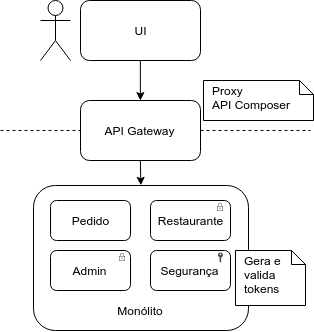
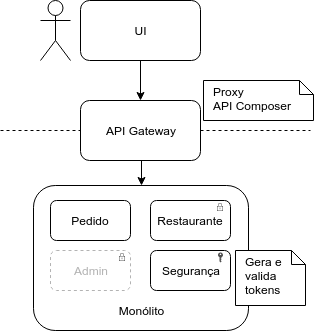
serviço Admin renomeado para Administrativo

diff --git a/15-seguranca.md b/15-seguranca.md
@@ -1,5 +1,80 @@
 # Segurança
 
+## Extraindo um serviço Administrativo do monólito
+
+Primeiramente, vamos extrair o módulo `eats-administrativo` do monólito para um serviço `eats-administrativo-service`.
+
+Para isso, criamos um novo projeto Spring Boot com as seguintes dependências:
+
+- Spring Boot DevTools
+- Spring Boot Actuator
+- Spring Data JPA
+- Spring Web Starter
+- Config Client
+- Eureka Discovery Client
+- Zipkin Client
+
+Então, movemos as seguintes classes do módulo `eats-administrativo` do monólito para o novo serviço `eats-administrativo-service`:
+
+- FormaDePagamento
+- FormaDePagamentoController
+- FormaDePagamentoRepository
+- TipoDeCozinha
+- TipoDeCozinhaController
+- TipoDeCozinhaRepository
+
+O serviço administrativo deve apontar para o Config Server, definindo um `bootstrap.properties` com `administrativo` como _application name_. No arquivo `administrativo.properties` do `config-repo`, definiremos as configurações de data source.
+
+Inicialmente, o serviço administrativo pode apontar para o mesmo BD do monólito. Aos poucos, deve ser feita a migração das tabelas `forma_de_pagamento` e `tipo_de_cozinha` para um BD próprio.
+
+No `application.properties`, deve ser definida `8084` na porta a ser utilizada.
+
+Então, o módulo `eats-administrativo` do monólito pode ser removido, assim como suas autorizações no módulo `eats-seguranca`.
+
+![Serviço administrativo extraído do monólito {w=93}](imagens/15-seguranca/administrativo-extraido-do-monolito.png)
+
+## Exercício: um serviço Administrativo
+
+1. Clone o projeto `fj33-eats-administrativo-service` para o seu Desktop:
+
+  ```sh
+  cd ~/Desktop
+  git clone https://gitlab.com/aovs/projetos-cursos/fj33-eats-administrativo-service.git
+  ```
+
+2. Crie um arquivo `administrativo.properties` no `config-repo`, definindo um data source que aponta para o BD do monólito:
+
+  ####### config-repo/administrativo.properties
+
+  ```properties
+  spring.datasource.url=jdbc:mysql://localhost/eats?createDatabaseIfNotExist=true
+  spring.datasource.username=root
+  spring.datasource.password=
+  ```
+
+3. Delete o módulo `eats-administrativo` do monólito.
+
+4. Remova, da classe `SecurityConfig` do módulo `eats-seguranca` do monólito,  as configurações de autorização dos endpoints que foram movidos:
+
+  ####### fj33-eats-monolito-modular/eats/eats-seguranca/src/main/java/br/com/caelum/eats/SecurityConfig.java
+
+  ```java
+  class SecurityConfig extends WebSecurityConfigurerAdapter {
+
+    // código omitido ...
+
+    @Override
+    protected void configure(HttpSecurity http) throws Exception {
+      http.authorizeRequests()
+        .antMatchers("/restaurantes/**", "/pedidos/**",̶ ̶"̶/̶t̶i̶p̶o̶s̶-̶d̶e̶-̶c̶o̶z̶i̶n̶h̶a̶/̶*̶*̶"̶,̶ ̶"̶/̶f̶o̶r̶m̶a̶s̶-̶d̶e̶-̶p̶a̶g̶a̶m̶e̶n̶t̶o̶/̶*̶*̶"̶).permitAll()
+        .antMatchers("/actuator/**").permitAll()
+        .̶a̶n̶t̶M̶a̶t̶c̶h̶e̶r̶s̶(̶"̶/̶a̶d̶m̶i̶n̶/̶*̶*̶"̶)̶.̶h̶a̶s̶R̶o̶l̶e̶(̶R̶o̶l̶e̶.̶R̶O̶L̶E̶S̶.̶A̶D̶M̶I̶N̶.̶n̶a̶m̶e̶(̶)̶)̶
+        // código omitido ...
+    }
+  
+  }
+  ```
+
 ## Autenticação e Autorização
 
 Grande parte das aplicações tem diferentes perfis de usuário, que têm permissão de acesso a diferentes funcionalidades. Isso é o que chamamos de **Autorização**.
@@ -176,6 +251,8 @@ class JwtTokenManager {
     return Jwts.builder()
               .setIssuer("Caelum Eats")
               .setSubject(Long.toString(user.getId()))
+              .claim("username", user.getName())
+              .claim("roles", user.getRoles())
               .setIssuedAt(now)
               .setExpiration(expiration)
               .signWith(SignatureAlgorithm.HS256, this.secret)
@@ -204,11 +281,15 @@ class JwtTokenManager {
 
 As configurações de autorização estão definidas na classe `SecurityConfig` do módulo `eats-seguranca` do monólito.
 
-Para URLs que começam com `/admin`, o ROLE do usuário deve ser `ADMIN` e terá acesso a tudo relativo a administração da aplicação. Esse tipo de autorização, em que um determinado ROLE tem acesso a qualquer endpoint relacionado é o que chamamos de _role-based authorization_.
+Antes da extração do serviço administrativo, para as URLs que começavam com `/admin`, o ROLE do usuário deveria ser `ADMIN` e teria acesso a tudo relativo à administração da aplicação. Esse tipo de autorização, em que um determinado ROLE tem acesso a qualquer endpoint relacionado é o que chamamos de _role-based authorization_.
 
-No caso da URL começar com `/parceiros/restaurantes/{restauranteId}`, é necessária uma autorização mais elaborada, que verifica se o usuário tem permissão ao restaurante por meio da classe `AuthorizationService`. Esse tipo de autorização, em que um usuário ter permissão em apenas alguns objetos de negócio é o que chamamos de _ACL-based authorization_. A sigla ACL significa _Access Control List_.
+Porém, ao extrairmos o serviço administrativo, perdemos a autorização feita no módulo de segurança do monólito. Ainda não implementamos autorização no novo serviço.
+
+No caso da URL começar com `/parceiros/restaurantes/do-usuario/{username}` ou `/parceiros/restaurantes/{restauranteId}`, é necessária uma autorização mais elaborada, que verifica se o usuário tem permissão a um restaurante específico, por meio da classe `RestauranteAuthorizationService`. Esse tipo de autorização, em que um usuário ter permissão em apenas alguns objetos de negócio é o que chamamos de _ACL-based authorization_. A sigla ACL significa _Access Control List_.
 
 ![Geração e validação de tokens no módulo de segurança do monólito {w=39}](imagens/15-seguranca/geracao-e-validacao-de-tokens-no-modulo-de-seguranca-do-monolito.png)
+
+<!-- TODO: continuar daqui a alterar o fluxo para considerar a autorização no serviço Administrativo -->
 
 ## Autenticação com Microservices e Single Sign On
 
@@ -1396,73 +1477,6 @@ Como usamos o algoritmo `HS256`, um algoritmo de chaves simétricas, a chave pri
 
 6. (desafio - trabalhoso) Aplique uma estratégia de migração de dados de usuário do monólito para um BD específico para o Authorization Server.
 
-## Extraindo um serviço Administrativo do monólito
-
-Primeiramente, vamos extrair o módulo `eats-admin` do monólito para um serviço `eats-admin-service`.
-
-Para isso, criamos um novo projeto Spring Boot com as seguintes dependências:
-
-- Spring Boot DevTools
-- Spring Boot Actuator
-- Spring Data JPA
-- Spring Web Starter
-- Config Client
-- Eureka Discovery Client
-- Zipkin Client
-
-Então, movemos as seguintes classes do módulo `eats-admin` do monólito para o novo serviço `eats-admin-service`:
-
-- FormaDePagamento
-- FormaDePagamentoController
-- FormaDePagamentoRepository
-- TipoDeCozinha
-- TipoDeCozinhaController
-- TipoDeCozinhaRepository
-
-O Admin Service deve apontar para o Config Server, definindo um `bootstrap.properties` com `admin` como _application name_. No arquivo `admin.properties` do `config-repo`, definiremos as configurações de data source apontando para o BD do monólito.
-
-No `application.properties`, deve ser definida `8084` na porta a ser utilizada.
-
-Então, o módulo `eats-admin` do monólito pode ser removido, assim como suas autorizações no módulo `eats-seguranca`.
-
-## Exercício: um serviço Administrativo
-
-1. Clone o projeto `fj33-eats-admin-service` para o seu Desktop:
-
-  ```sh
-  cd ~/Desktop
-  git clone https://gitlab.com/aovs/projetos-cursos/fj33-eats-admin-service.git
-  ```
-
-2. Crie um arquivo `admin.properties` no `config-repo`, definindo um data source que aponta para o BD do monólito:
-
-  ```properties
-  spring.datasource.url=jdbc:mysql://localhost/eats?createDatabaseIfNotExist=true
-  spring.datasource.username=root
-  spring.datasource.password=
-  ```
-
-3. Delete o módulo `eats-admin` do monólito.
-
-4. Remova, da classe `SecurityConfig` do módulo `eats-seguranca` do monólito,  as configurações de autorização dos endpoints que foram movidos:
-
-  ```java
-  class SecurityConfig extends WebSecurityConfigurerAdapter {
-
-    // código omitido ...
-
-    @Override
-    protected void configure(HttpSecurity http) throws Exception {
-      http.authorizeRequests()
-        .antMatchers("/restaurantes/**", "/pedidos/**",̶ ̶"̶/̶t̶i̶p̶o̶s̶-̶d̶e̶-̶c̶o̶z̶i̶n̶h̶a̶/̶*̶*̶"̶,̶ ̶"̶/̶f̶o̶r̶m̶a̶s̶-̶d̶e̶-̶p̶a̶g̶a̶m̶e̶n̶t̶o̶/̶*̶*̶"̶).permitAll()
-        .antMatchers("/actuator/**").permitAll()
-        .̶a̶n̶t̶M̶a̶t̶c̶h̶e̶r̶s̶(̶"̶/̶a̶d̶m̶i̶n̶/̶*̶*̶"̶)̶.̶h̶a̶s̶R̶o̶l̶e̶(̶R̶o̶l̶e̶.̶R̶O̶L̶E̶S̶.̶A̶D̶M̶I̶N̶.̶n̶a̶m̶e̶(̶)̶)̶
-        // código omitido ...
-    }
-  
-  }
-  ```
-
 ## Resource Server com Spring Security OAuth 2
 
 Para definir um Resource Server com o Spring Security OAuth 2, que consiga validar e decodificar os tokens (opacos ou JWT) emitidos pelo Authorization Server, basta anotar a aplicação ou uma configuração com `@EnableResourceServer`.
@@ -1475,9 +1489,9 @@ Por padrão, todos os endereços requerem autenticação. Porém, é possível c
 
 ## Exercício: protegendo o serviço Administrativo
 
-1. Adicione os starters do Spring Security OAuth 2 e Spring Cloud Security ao `pom.xml` do `eats-admin-service`:
+1. Adicione os starters do Spring Security OAuth 2 e Spring Cloud Security ao `pom.xml` do `eats-administrativo-service`:
 
-  ####### fj33-eats-admin-service/pom.xml
+  ####### fj33-eats-administrativo-service/pom.xml
 
   ```xml
   <dependency>
@@ -1490,18 +1504,18 @@ Por padrão, todos os endereços requerem autenticação. Porém, é possível c
   </dependency>
   ```
 
-2. Anote a  classe `EatsAdminServiceApplication` com `@EnableResourceServer`:
+2. Anote a  classe `EatsAdministrativoServiceApplication` com `@EnableResourceServer`:
 
-  ####### fj33-eats-admin-service/src/main/java/br/com/caelum/eats/admin/EatsAdminServiceApplication.java
+  ####### fj33-eats-administrativo-service/src/main/java/br/com/caelum/eats/admin/EatsAdministrativoServiceApplication.java
 
   ```java
   @EnableResourceServer // adicionado
   @EnableDiscoveryClient
   @SpringBootApplication
-  public class EatsAdminServiceApplication {
+  public class EatsAdministrativoServiceApplication {
 
     public static void main(String[] args) {
-      SpringApplication.run(EatsAdminServiceApplication.class, args);
+      SpringApplication.run(EatsAdministrativoServiceApplication.class, args);
     }
 
   }
@@ -1517,7 +1531,7 @@ Por padrão, todos os endereços requerem autenticação. Porém, é possível c
 
 4. Crie uma classe `OAuthResourceServerConfig`. Herde da classe `ResourceServerConfigurerAdapter` e permita que todos acessem a listagem de tipos de cozinha e formas de pagamento, assim como os endpoints do Spring Boot Actuator. As URLs que começam com `/admin` devem ser restritas a usuário que tem o role `ADMIN`.
 
-  ####### fj33-eats-admin-service/src/main/java/br/com/caelum/eats/admin/OAuthResourceServerConfig.java
+  ####### fj33-eats-administrativo-service/src/main/java/br/com/caelum/eats/admin/OAuthResourceServerConfig.java
 
   ```java
   @Configuration

diff --git a/03-extraindo-servicos.md b/03-extraindo-servicos.md
@@ -72,7 +72,7 @@
 
   Há alguns erros de compilação. Os corrigiremos nos próximos passos.
 
-2. Na classe `Pagamento`, há erros de compilação nas referências às classes `Pedido` e `FormaDePagamento` que são, respectivamente, dos módulos `eats-pedido` e `eats-admin` do monólito.
+2. Na classe `Pagamento`, há erros de compilação nas referências às classes `Pedido` e `FormaDePagamento` que são, respectivamente, dos módulos `eats-pedido` e `eats-administrativo` do monólito.
   Será que devemos colocar dependências Maven a esses módulos? Não parece uma boa, não é mesmo?
   Vamos, então, trocar as referências a essas classes pelos respectivos ids, de maneira a referenciar as raízes dos agregados `Pedido` e `FormaDePagamento`:
 
@@ -372,7 +372,7 @@
 
   ```xml
   <modules>
-    <module>eats-admin</module>
+    <module>eats-administrativo</module>
     <̶m̶o̶d̶u̶l̶e̶>̶e̶a̶t̶s̶-̶p̶a̶g̶a̶m̶e̶n̶t̶o̶<̶/̶m̶o̶d̶u̶l̶e̶>̶
     <module>eats-restaurante</module>
     <module>eats-pedido</module>
@@ -676,7 +676,7 @@
 
   ```xml
   <modules>
-    <module>eats-admin</module>
+    <module>eats-administrativo</module>
     <module>eats-restaurante</module>
     <module>eats-pedido</module>
     <̶m̶o̶d̶u̶l̶e̶>̶e̶a̶t̶s̶-̶d̶i̶s̶t̶a̶n̶c̶i̶a̶<̶/̶m̶o̶d̶u̶l̶e̶>̶

diff --git a/12-contratos.md b/12-contratos.md
@@ -231,7 +231,7 @@
   import org.springframework.test.context.junit4.SpringRunner;
   import org.springframework.web.client.RestTemplate;
 
-  import br.com.caelum.eats.admin.TipoDeCozinha;
+  import br.com.caelum.eats.administrativo.TipoDeCozinha;
   import br.com.caelum.eats.restaurante.DistanciaRestClient;
   import br.com.caelum.eats.restaurante.Restaurante;
   ```
